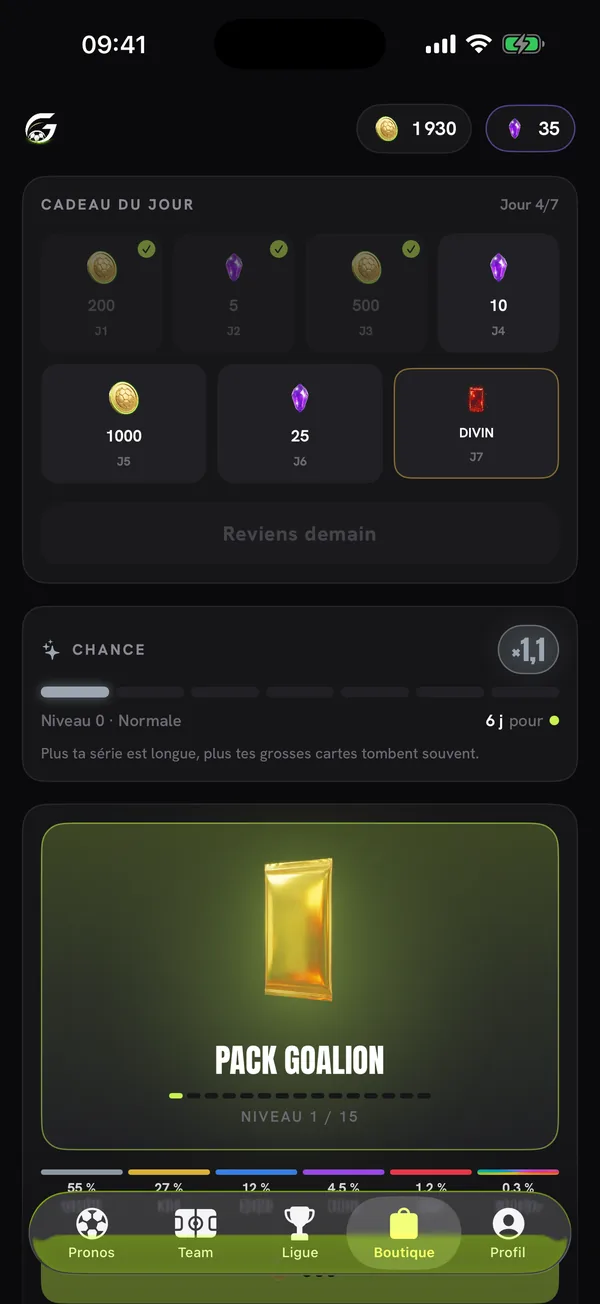
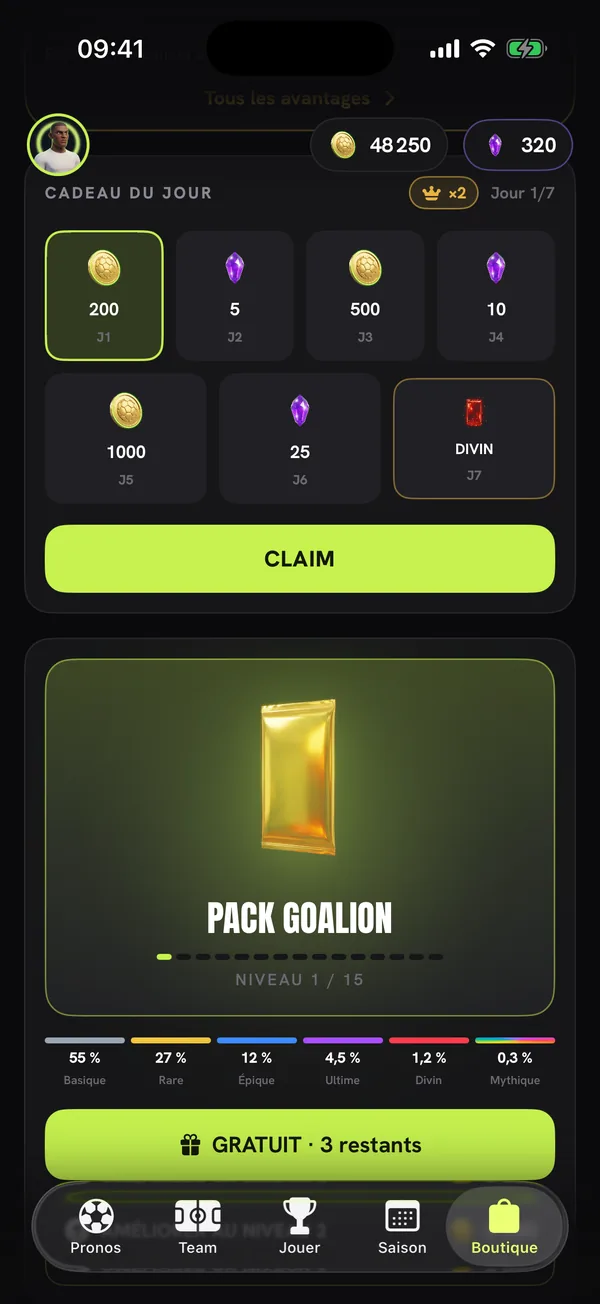
Captures 1.2, bloc Saisons, match à temps forts, conditions d'utilisation, bandeau argent réel retiré

diff --git a/index.html b/index.html
@@ -4,7 +4,7 @@
 <meta charset="utf-8">
 <meta name="viewport" content="width=device-width, initial-scale=1, viewport-fit=cover">
 <title>GOALION — Prédis. Collectionne. Domine.</title>
-<meta name="description" content="GOALION, le jeu de foot sur iPhone : pronostique les vrais matchs, ouvre des packs, aligne ton onze et grimpe jusqu'à Légende. Monnaie virtuelle uniquement.">
+<meta name="description" content="GOALION, le jeu de foot sur iPhone : pronostique les vrais matchs, ouvre des packs, aligne ton onze, joue tes matchs et grimpe jusqu'à Légende.">
 <meta name="theme-color" content="#0A0A0C">
 <meta property="og:title" content="GOALION — Prédis. Collectionne. Domine.">
 <meta property="og:description" content="Les vrais matchs, tes cartes, ton onze. Jusqu'où iras-tu ?">
@@ -204,11 +204,6 @@ body{margin:0;background:#0A0A0C}
   .gl .rk.cur{transform:scale(1.12)}
 }
 
-/* ---------- Argent réel ---------- */
-.gl .nomoney{display:flex;align-items:center;justify-content:center;gap:16px;flex-wrap:wrap;text-align:center;padding:22px 26px;border-radius:22px;background:var(--surface);border:1px solid var(--line2);color:var(--text2);font-size:15px}
-.gl .nomoney img{width:34px;height:34px}
-.gl .nomoney b{color:var(--text)}
-
 /* ---------- Assistance ---------- */
 .gl .help{display:grid;grid-template-columns:.8fr 1.2fr;gap:clamp(30px,5vw,70px);align-items:start}
 .gl .help>*{min-width:0}
@@ -222,6 +217,7 @@ body{margin:0;background:#0A0A0C}
 .gl .mail{display:inline-flex;align-items:center;gap:10px;margin-top:20px;padding:14px 20px;border-radius:16px;background:var(--surface);border:1px solid var(--line2);color:var(--text);text-decoration:none;font-weight:800;transition:border-color .2s,transform .2s}
 .gl .mail:hover{border-color:var(--accent);transform:translateY(-2px)}
 .gl .mail span{color:var(--accent)}
+.gl .mail svg{flex:none;color:var(--accent)}
 
 /* ---------- Final + footer ---------- */
 .gl .final{text-align:center;padding:clamp(90px,14vw,170px) 0;position:relative;overflow:hidden;isolation:isolate}
@@ -318,10 +314,10 @@ body{margin:0;background:#0A0A0C}
   <div class="scroll-hint" aria-hidden="true"></div>
 </section>
 
-<div class="marquee" aria-label="Ligue 1, Premier League, Liga, Serie A, Bundesliga, Ligue des champions">
+<div class="marquee" aria-label="Ligue 1, Premier League, Liga, Serie A, Bundesliga, Ligue des champions, Ligue des Nations, Coupe du Monde, Coupe européenne">
   <div class="track" aria-hidden="true">
-    <span>Ligue 1</span><span>Premier League</span><span>Liga</span><span>Serie A</span><span>Bundesliga</span><span>Ligue des champions</span>
-    <span>Ligue 1</span><span>Premier League</span><span>Liga</span><span>Serie A</span><span>Bundesliga</span><span>Ligue des champions</span>
+    <span>Ligue 1</span><span>Premier League</span><span>Liga</span><span>Serie A</span><span>Bundesliga</span><span>Ligue des champions</span><span>Ligue des Nations</span><span>Coupe du Monde</span><span>Coupe européenne</span>
+    <span>Ligue 1</span><span>Premier League</span><span>Liga</span><span>Serie A</span><span>Bundesliga</span><span>Ligue des champions</span><span>Ligue des Nations</span><span>Coupe du Monde</span><span>Coupe européenne</span>
   </div>
 </div>
 
@@ -333,10 +329,9 @@ body{margin:0;background:#0A0A0C}
       <h2 class="h2">Les vrais matchs.<br><em>Les vraies cotes.</em></h2>
       <p class="lead">Mise sur les matchs du week-end. Le bon prono rapporte gros.</p>
     </div>
-    <div class="shots duo" data-reveal="zoom">
+    <div class="shots" data-reveal="zoom">
       <div class="glow" style="background:radial-gradient(circle,#C6F24E,transparent 65%)"></div>
-      <div class="phone"><img src="shot_pronos.webp" alt="Un match à parier avec ses cotes" loading="lazy" width="600" height="1304"></div>
-      <div class="phone"><img src="shot_paris.webp" alt="Tes paris en cours" loading="lazy" width="600" height="1304"></div>
+      <div class="phone floatme"><img src="shot_pronos.webp" alt="Les matchs à pronostiquer et leurs cotes" loading="lazy" width="600" height="1304"></div>
     </div>
   </div>
 </section>
@@ -388,6 +383,10 @@ body{margin:0;background:#0A0A0C}
       <h2 class="h2">D'Espoir<br>à <em>Légende</em></h2>
       <p class="lead">Neuf rangs. Jusqu'où iras-tu ?</p>
     </div>
+    <div class="shots" data-reveal="zoom" style="margin-top:30px">
+      <div class="glow" style="background:radial-gradient(circle,#FF5A5A,transparent 65%)"></div>
+      <div class="phone floatme"><img src="shot_jouer.webp" alt="L'onglet Jouer : ton rang, tes paliers et le bouton pour lancer un match" loading="lazy" width="600" height="1304"></div>
+    </div>
     <div class="ladder" id="gl-ladder">
       <div class="rail"><i id="gl-rail"></i></div>
       <div class="ranks">
@@ -410,22 +409,38 @@ body{margin:0;background:#0A0A0C}
   <div class="wrap split">
     <div class="txt" data-reveal="left">
       <span class="eyebrow">05 · Le match</span>
-      <h2 class="h2">Vis chaque<br><em>match.</em></h2>
-      <p class="lead">Ton équipe joue sous tes yeux, but après but.</p>
+      <h2 class="h2">Devine<br><em>son coup.</em></h2>
+      <p class="lead">Toi et ton adversaire choisissez en même temps. <strong>Lis son jeu, marque.</strong></p>
     </div>
     <div class="shots duo" data-reveal="zoom">
       <div class="glow" style="background:radial-gradient(circle,#E8B341,transparent 65%)"></div>
-      <div class="phone"><img src="shot_match_live.webp" alt="Un match en direct dans son stade" loading="lazy" width="600" height="1304"></div>
-      <div class="phone"><img src="shot_coup_envoi.webp" alt="Le coup d'envoi" loading="lazy" width="600" height="1304"></div>
+      <div class="phone"><img src="shot_tactique.webp" alt="Le choix de la tactique avant le coup d'envoi" loading="lazy" width="600" height="1304"></div>
+      <div class="phone"><img src="shot_temps_fort.webp" alt="Un temps fort : jeu sûr, but, golazo ou geste" loading="lazy" width="600" height="1304"></div>
     </div>
   </div>
 </section>
 
-<!-- 06 CHAQUE JOUR -->
-<section class="block" id="chaque-jour" style="padding-top:0">
+<!-- 06 SAISONS -->
+<section class="block" id="saisons">
   <div class="wrap split rev">
     <div class="txt" data-reveal="right">
-      <span class="eyebrow">06 · Chaque jour</span>
+      <span class="eyebrow">06 · Saisons</span>
+      <h2 class="h2">Une saison<br><em>par mois.</em></h2>
+      <p class="lead">Un nouveau décor, de nouvelles surprises. <strong>En décembre, c'est Noël.</strong></p>
+    </div>
+    <div class="shots duo" data-reveal="zoom">
+      <div class="glow" style="background:radial-gradient(circle,#00E5F0,transparent 65%)"></div>
+      <div class="phone"><img src="shot_saison.webp" alt="L'onglet Saison : la saison Néon City, le calendrier de l'Avent et le sapin" loading="lazy" width="600" height="1304"></div>
+      <div class="phone"><img src="shot_avent.webp" alt="Le calendrier de l'Avent : une case à ouvrir chaque jour" loading="lazy" width="600" height="1304"></div>
+    </div>
+  </div>
+</section>
+
+<!-- 07 CHAQUE JOUR -->
+<section class="block" id="chaque-jour" style="padding-top:0">
+  <div class="wrap split">
+    <div class="txt" data-reveal="left">
+      <span class="eyebrow">07 · Chaque jour</span>
       <h2 class="h2">Chaque jour<br><em>compte.</em></h2>
       <p class="lead">Un cadeau qui t'attend, une série à garder en vie.</p>
     </div>
@@ -436,20 +451,13 @@ body{margin:0;background:#0A0A0C}
   </div>
 </section>
 
-<!-- ARGENT RÉEL -->
-<section class="block" style="padding:0 0 20px">
-  <div class="wrap">
-    <p class="nomoney" data-reveal><img src="coin_golz.webp" alt=""><span><b>Zéro argent réel.</b> Tout se joue avec une monnaie virtuelle.</span></p>
-  </div>
-</section>
-
 <!-- ASSISTANCE -->
 <section class="block" id="assistance">
   <div class="wrap help">
     <div data-reveal="left">
       <span class="eyebrow">Assistance</span>
       <h2 class="h2">Une question&nbsp;?</h2>
-      <a class="mail" href="mailto:contact@goalion.fr">✉ <span>contact@goalion.fr</span></a>
+      <a class="mail" href="mailto:contact@goalion.fr"><svg width="20" height="20" viewBox="0 0 24 24" fill="none" stroke="currentColor" stroke-width="2" stroke-linecap="round" stroke-linejoin="round" aria-hidden="true"><rect x="2" y="4" width="20" height="16" rx="3"/><path d="m3 7 9 6 9-6"/></svg><span>contact@goalion.fr</span></a>
     </div>
     <div class="faq" data-reveal="right">
       <details><summary>J'ai oublié mon mot de passe.</summary><p>Sur l'écran de connexion, touche « Mot de passe oublié ? » et suis le lien reçu par email.</p></details>
@@ -477,7 +485,7 @@ body{margin:0;background:#0A0A0C}
 <footer>
   <div class="wrap">
     <img src="logo_full.webp" alt="GOALION" loading="lazy">
-    <nav><a href="#assistance">Assistance</a><a href="confidentialite.html">Confidentialité</a><a href="mailto:contact@goalion.fr">contact@goalion.fr</a></nav>
+    <nav><a href="#assistance">Assistance</a><a href="cgu.html">Conditions</a><a href="confidentialite.html">Confidentialité</a><a href="mailto:contact@goalion.fr">contact@goalion.fr</a></nav>
     <span>© 2026 Samuel Attias · GOALION · Published by <a href="https://pixelperfectwidgets.com" target="_blank" rel="noopener">PPW</a></span>
   </div>
 </footer>

diff --git a/cgu.html b/cgu.html
@@ -1,0 +1,148 @@
+<!doctype html>
+<html lang="fr"><head>
+<meta charset="utf-8">
+<meta name="viewport" content="width=device-width, initial-scale=1">
+<title>Conditions d'utilisation — GOALION</title>
+<link rel="icon" href="icon.png">
+<link rel="apple-touch-icon" href="apple-touch-icon.png">
+<meta name="description" content="Les règles d'utilisation de l'application GOALION.">
+<style>
+:root{--bg:#0A0A0C;--surface:#161618;--line:rgba(255,255,255,.08);--text:#F2F2F4;--text2:#A6A6B0;--accent:#C6F24E;--accentText:#14180A}
+*{box-sizing:border-box}
+html{-webkit-text-size-adjust:100%}
+body{margin:0;background:var(--bg);color:var(--text);font:16px/1.65 -apple-system,BlinkMacSystemFont,"Segoe UI",Roboto,sans-serif}
+a{color:var(--accent)}
+.wrap{max-width:720px;margin:0 auto;padding:0 20px}
+header{border-bottom:1px solid var(--line)}
+header .wrap{display:flex;align-items:center;justify-content:space-between;height:64px}
+.brand{font-weight:900;letter-spacing:.18em;color:var(--text);text-decoration:none;font-size:18px}
+.brand span{color:var(--accent)}
+nav a{color:var(--text2);text-decoration:none;font-size:14px;margin-left:18px}
+nav a:hover{color:var(--text)}
+@media (max-width:520px){nav a{margin-left:14px;font-size:13px}nav a:first-child{display:none}}
+main{padding:48px 0 80px}
+h1{font-size:34px;line-height:1.15;margin:0 0 10px;letter-spacing:-.01em}
+h2{font-size:19px;margin:36px 0 8px}
+p,li{color:var(--text2)} strong{color:var(--text)}
+ul{padding-left:22px} li{margin:6px 0}
+footer{border-top:1px solid var(--line);color:var(--text2);font-size:13px;padding:24px 0 40px}
+footer a{color:var(--text2)}
+</style>
+</head><body>
+<header><div class="wrap">
+  <a class="brand" href="./">GOAL<span>ION</span></a>
+  <nav><a href="./#assistance">Assistance</a><a href="cgu.html">Conditions</a><a href="confidentialite.html">Confidentialité</a></nav>
+</div></header>
+<main><div class="wrap">
+<h1>Conditions d'utilisation</h1>
+<p><strong>Dernière mise à jour : 11 novembre 2026</strong></p>
+<p>Ces conditions encadrent l'utilisation de l'application GOALION. En créant un compte ou en
+jouant, tu les acceptes. Si tu n'es pas d'accord, n'utilise pas l'application.</p>
+
+<h2>1. Le jeu</h2>
+<p>GOALION est un jeu de football sur iPhone. Tu y pronostiques de vrais matchs, tu ouvres des
+packs de cartes, tu composes ton équipe, tu joues des matchs contre d'autres joueurs et tu
+participes à des saisons et des événements.</p>
+
+<h2>2. L'éditeur</h2>
+<p>GOALION est publié par PPW (<a href="https://pixelperfectwidgets.com" target="_blank" rel="noopener">pixelperfectwidgets.com</a>).
+Contact : <a href="mailto:contact@goalion.fr">contact@goalion.fr</a>.</p>
+
+<h2>3. Qui peut jouer</h2>
+<ul>
+<li>L'application est classée <strong>17+</strong> sur l'App Store. Tu dois avoir l'âge requis
+  par cette classification et par la loi de ton pays.</li>
+<li>Un compte est personnel. Tu es responsable de ce qui se passe avec ton compte et de la
+  confidentialité de ton mot de passe.</li>
+<li>Les informations que tu donnes à l'inscription doivent être exactes, en particulier ton
+  adresse email, qui sert à récupérer ton compte.</li>
+</ul>
+
+<h2>4. Pièces, gemmes, cartes et packs</h2>
+<p>Les pièces (golz), les gemmes, les cartes, les packs, les atouts, les stades et toutes les
+récompenses du jeu sont des <strong>éléments virtuels</strong>. Concrètement :</p>
+<ul>
+<li>ils n'ont aucune valeur monétaire et ne peuvent jamais être échangés contre de l'argent,
+  des biens ou des services en dehors du jeu ;</li>
+<li>tu ne les possèdes pas : nous t'accordons un droit d'utilisation personnel, dans le jeu,
+  tant que ton compte existe ;</li>
+<li>il est interdit de les vendre, de les acheter ou de les échanger contre de l'argent réel,
+  y compris en dehors de l'application ;</li>
+<li>nous pouvons ajuster les prix, les probabilités, les notes des joueurs ou les récompenses
+  pour garder le jeu équilibré ;</li>
+<li>ils disparaissent si ton compte est supprimé.</li>
+</ul>
+
+<h2>5. Les pronostics</h2>
+<p>Les pronostics se jouent uniquement avec les pièces du jeu. GOALION n'est pas un service de
+paris : aucune mise en argent réel, aucun gain en argent réel. Les matchs, les cotes et les
+résultats viennent de sources publiques. En cas d'erreur de donnée, de match reporté ou annulé,
+nous pouvons corriger, annuler ou rembourser un pronostic en pièces.</p>
+
+<h2>6. Achats intégrés</h2>
+<ul>
+<li>Certains contenus (Pass Premium, lots de gemmes) peuvent s'acheter dans l'application.
+  Le paiement passe exclusivement par Apple, selon ses propres conditions.</li>
+<li>Un achat débloque un contenu virtuel dans le jeu, livré immédiatement. Tu acceptes donc
+  qu'il soit exécuté tout de suite et renonces à ton droit de rétractation pour ce contenu,
+  comme le permet la loi.</li>
+<li>Les demandes de remboursement se font auprès d'Apple. En cas de remboursement, nous
+  pouvons retirer le contenu correspondant.</li>
+</ul>
+
+<h2>7. Saisons et événements</h2>
+<p>Les saisons, les événements (comme Noël), les classements et leurs récompenses ont une durée
+limitée. Leur contenu, leur calendrier et leurs règles peuvent changer d'une saison à l'autre.</p>
+
+<h2>8. Règles de bonne conduite</h2>
+<p>Il est interdit :</p>
+<ul>
+<li>de choisir un pseudo injurieux, discriminatoire, trompeur ou qui usurpe l'identité de
+  quelqu'un ;</li>
+<li>de tricher : logiciels tiers, automatisation, modification de l'application, exploitation
+  volontaire d'un bug, plusieurs comptes pour s'avantager ;</li>
+<li>de nuire aux autres joueurs ou au bon fonctionnement du service.</li>
+</ul>
+<p>Si tu trouves un bug, signale-le à <a href="mailto:contact@goalion.fr">contact@goalion.fr</a>.</p>
+
+<h2>9. Suspension et suppression</h2>
+<p>En cas de non-respect de ces conditions, nous pouvons retirer des éléments obtenus de façon
+irrégulière, renommer un pseudo, suspendre ou supprimer un compte. Tu peux supprimer ton compte
+à tout moment : <strong>Profil → Réglages → Supprimer mon compte</strong>. La suppression est
+définitive.</p>
+
+<h2>10. Propriété intellectuelle</h2>
+<p>L'application, son nom, son logo, ses illustrations, ses textes et son code appartiennent à
+leurs auteurs et sont protégés. Tu ne peux pas les copier ni les réutiliser sans accord.</p>
+<p>Les noms de joueurs, de clubs et de compétitions sont cités pour décrire de vrais matchs.
+GOALION n'est ni affilié, ni soutenu, ni sponsorisé par ces joueurs, clubs, ligues ou
+fédérations, ni par Apple.</p>
+
+<h2>11. Disponibilité du service</h2>
+<p>Nous faisons de notre mieux pour que GOALION fonctionne sans interruption, mais le service est
+fourni tel quel. Il peut être interrompu pour maintenance, évoluer, ou contenir des erreurs,
+en particulier pendant la bêta. Nous pouvons modifier ou arrêter des fonctionnalités.</p>
+
+<h2>12. Responsabilité</h2>
+<p>Dans les limites permises par la loi, nous ne sommes pas responsables des dommages indirects
+liés à l'utilisation du jeu, ni de la perte d'éléments virtuels causée par une panne, une erreur
+ou un usage contraire à ces conditions. Rien ici ne limite les droits que la loi te garantit en
+tant que consommateur.</p>
+
+<h2>13. Données personnelles</h2>
+<p>La façon dont nous utilisons tes données est décrite dans la
+<a href="confidentialite.html">politique de confidentialité</a>.</p>
+
+<h2>14. Modifications</h2>
+<p>Nous pouvons faire évoluer ces conditions. La nouvelle version est publiée sur cette page avec
+sa date. Si un changement est important, nous te prévenons dans l'application. Continuer à jouer
+après ce changement vaut acceptation.</p>
+
+<h2>15. Droit applicable</h2>
+<p>Ces conditions sont soumises au droit français. En cas de désaccord, écris-nous d'abord à
+<a href="mailto:contact@goalion.fr">contact@goalion.fr</a> pour trouver une solution à l'amiable.
+À défaut, les tribunaux français sont compétents, sans préjudice des règles qui te protègent en
+tant que consommateur dans ton pays de résidence.</p>
+</div></main>
+<footer><div class="wrap">© 2026 Samuel Attias · GOALION · Published by <a href="https://pixelperfectwidgets.com" target="_blank" rel="noopener">PPW</a> · <a href="mailto:contact@goalion.fr">contact@goalion.fr</a> · <a href="cgu.html">Conditions d'utilisation</a> · <a href="confidentialite.html">Politique de confidentialité</a></div></footer>
+</body></html>

diff --git a/confidentialite.html b/confidentialite.html
@@ -19,6 +19,7 @@ header .wrap{display:flex;align-items:center;justify-content:space-between;heigh
 .brand span{color:var(--accent)}
 nav a{color:var(--text2);text-decoration:none;font-size:14px;margin-left:18px}
 nav a:hover{color:var(--text)}
+@media (max-width:520px){nav a{margin-left:14px;font-size:13px}nav a:first-child{display:none}}
 main{padding:48px 0 80px}
 h1{font-size:34px;line-height:1.15;margin:0 0 10px;letter-spacing:-.01em}
 h2{font-size:19px;margin:36px 0 8px}
@@ -40,7 +41,7 @@ footer a{color:var(--text2)}
 </head><body>
 <header><div class="wrap">
   <a class="brand" href="./">GOAL<span>ION</span></a>
-  <nav><a href="./#assistance">Assistance</a><a href="confidentialite.html">Confidentialité</a></nav>
+  <nav><a href="./#assistance">Assistance</a><a href="cgu.html">Conditions</a><a href="confidentialite.html">Confidentialité</a></nav>
 </div></header>
 <main><div class="wrap">
 <h1>Politique de confidentialité</h1>
@@ -102,5 +103,5 @@ fourni des informations, écris-nous et nous les supprimerons.</p>
 <p>Toute évolution de cette politique sera publiée sur cette page, avec une nouvelle
 date de mise à jour.</p>
 </div></main>
-<footer><div class="wrap">© 2026 Samuel Attias · GOALION · Published by <a href="https://pixelperfectwidgets.com" target="_blank" rel="noopener">PPW</a> · <a href="mailto:contact@goalion.fr">contact@goalion.fr</a> · <a href="confidentialite.html">Politique de confidentialité</a></div></footer>
+<footer><div class="wrap">© 2026 Samuel Attias · GOALION · Published by <a href="https://pixelperfectwidgets.com" target="_blank" rel="noopener">PPW</a> · <a href="mailto:contact@goalion.fr">contact@goalion.fr</a> · <a href="cgu.html">Conditions d'utilisation</a> · <a href="confidentialite.html">Politique de confidentialité</a></div></footer>
 </body></html>
